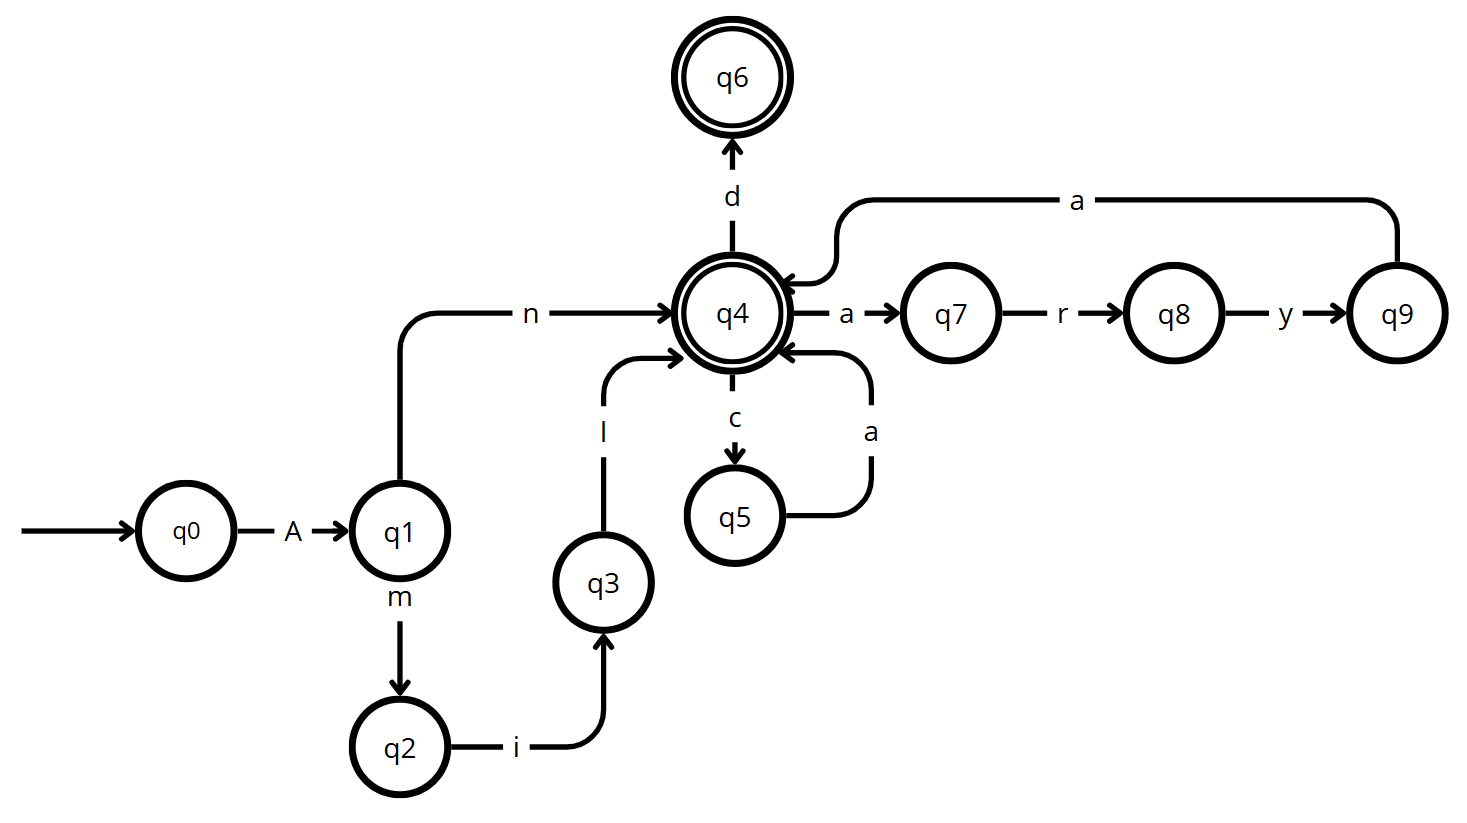
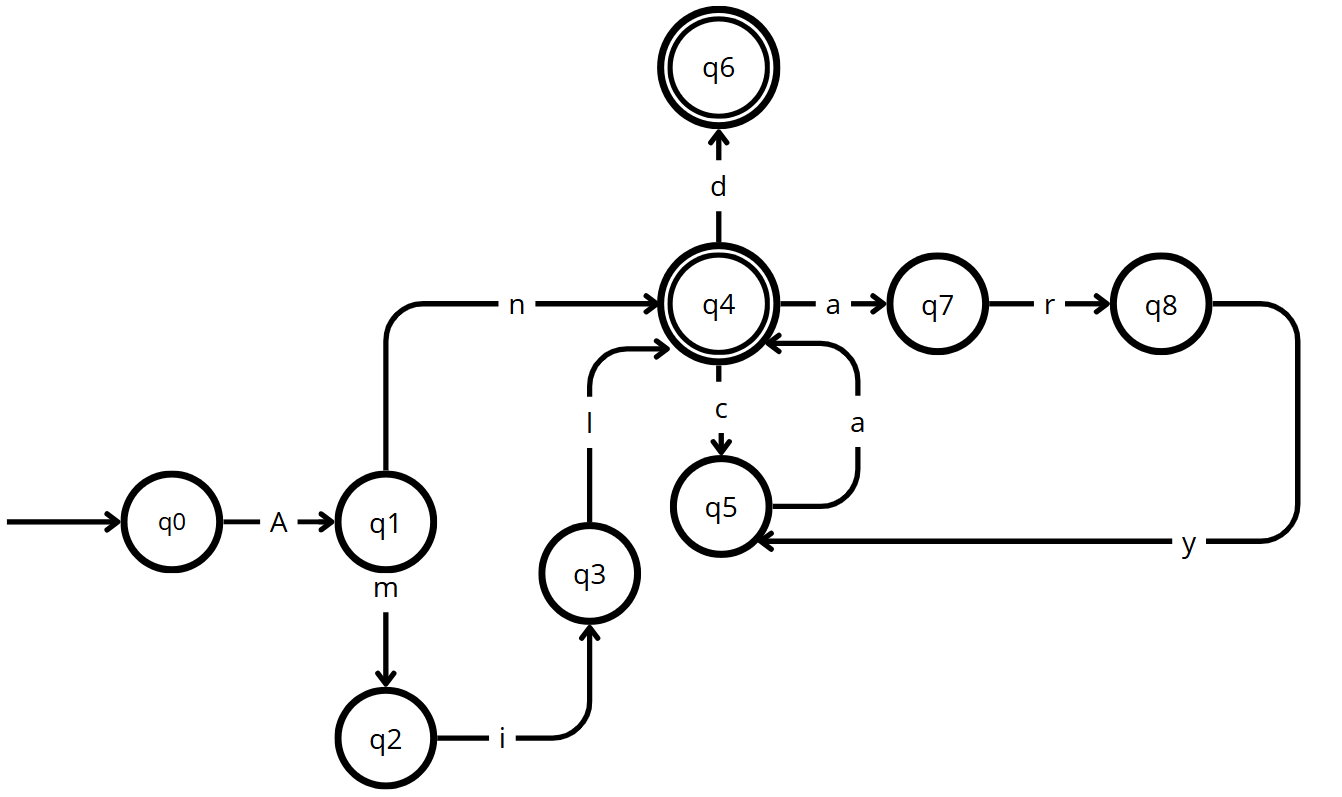
add new version DFA

Changed region(s): [[0.0, 0.2409, 1.0, 0.9937], [0.4583, 0.0, 0.5805, 0.2409], [0.5805, 0.5119, 0.611, 0.542]]

diff --git a/README.md b/README.md
@@ -50,10 +50,12 @@ In the same way we can determine that our final states will correspond to the la
 With this information we can build our Deterministic Finite Automata:
 
 VERSION 1:
+This is the initial design of my DFA, constructed by following the natural flow of the given set of words without applying reductions or optimizations. Each valid word is recognized while maintaining a deterministic structure.
 ![Image](https://github.com/user-attachments/assets/c7865433-162e-4d1c-8817-8a64521b3a74)
 
 VERSION 2:
-![Image](https://github.com/user-attachments/assets/84ec3ae9-b7b4-4cad-b253-d291f1632a82)
+
+![Image](https://github.com/user-attachments/assets/5236cbf0-00a9-4920-b98a-cb572aa33b12)
 
 ## References
 GeeksforGeeks. (2024, september 12). Introduction of Finite Automata. GeeksforGeeks. https://www.geeksforgeeks.org/introduction-of-finite-automata/
